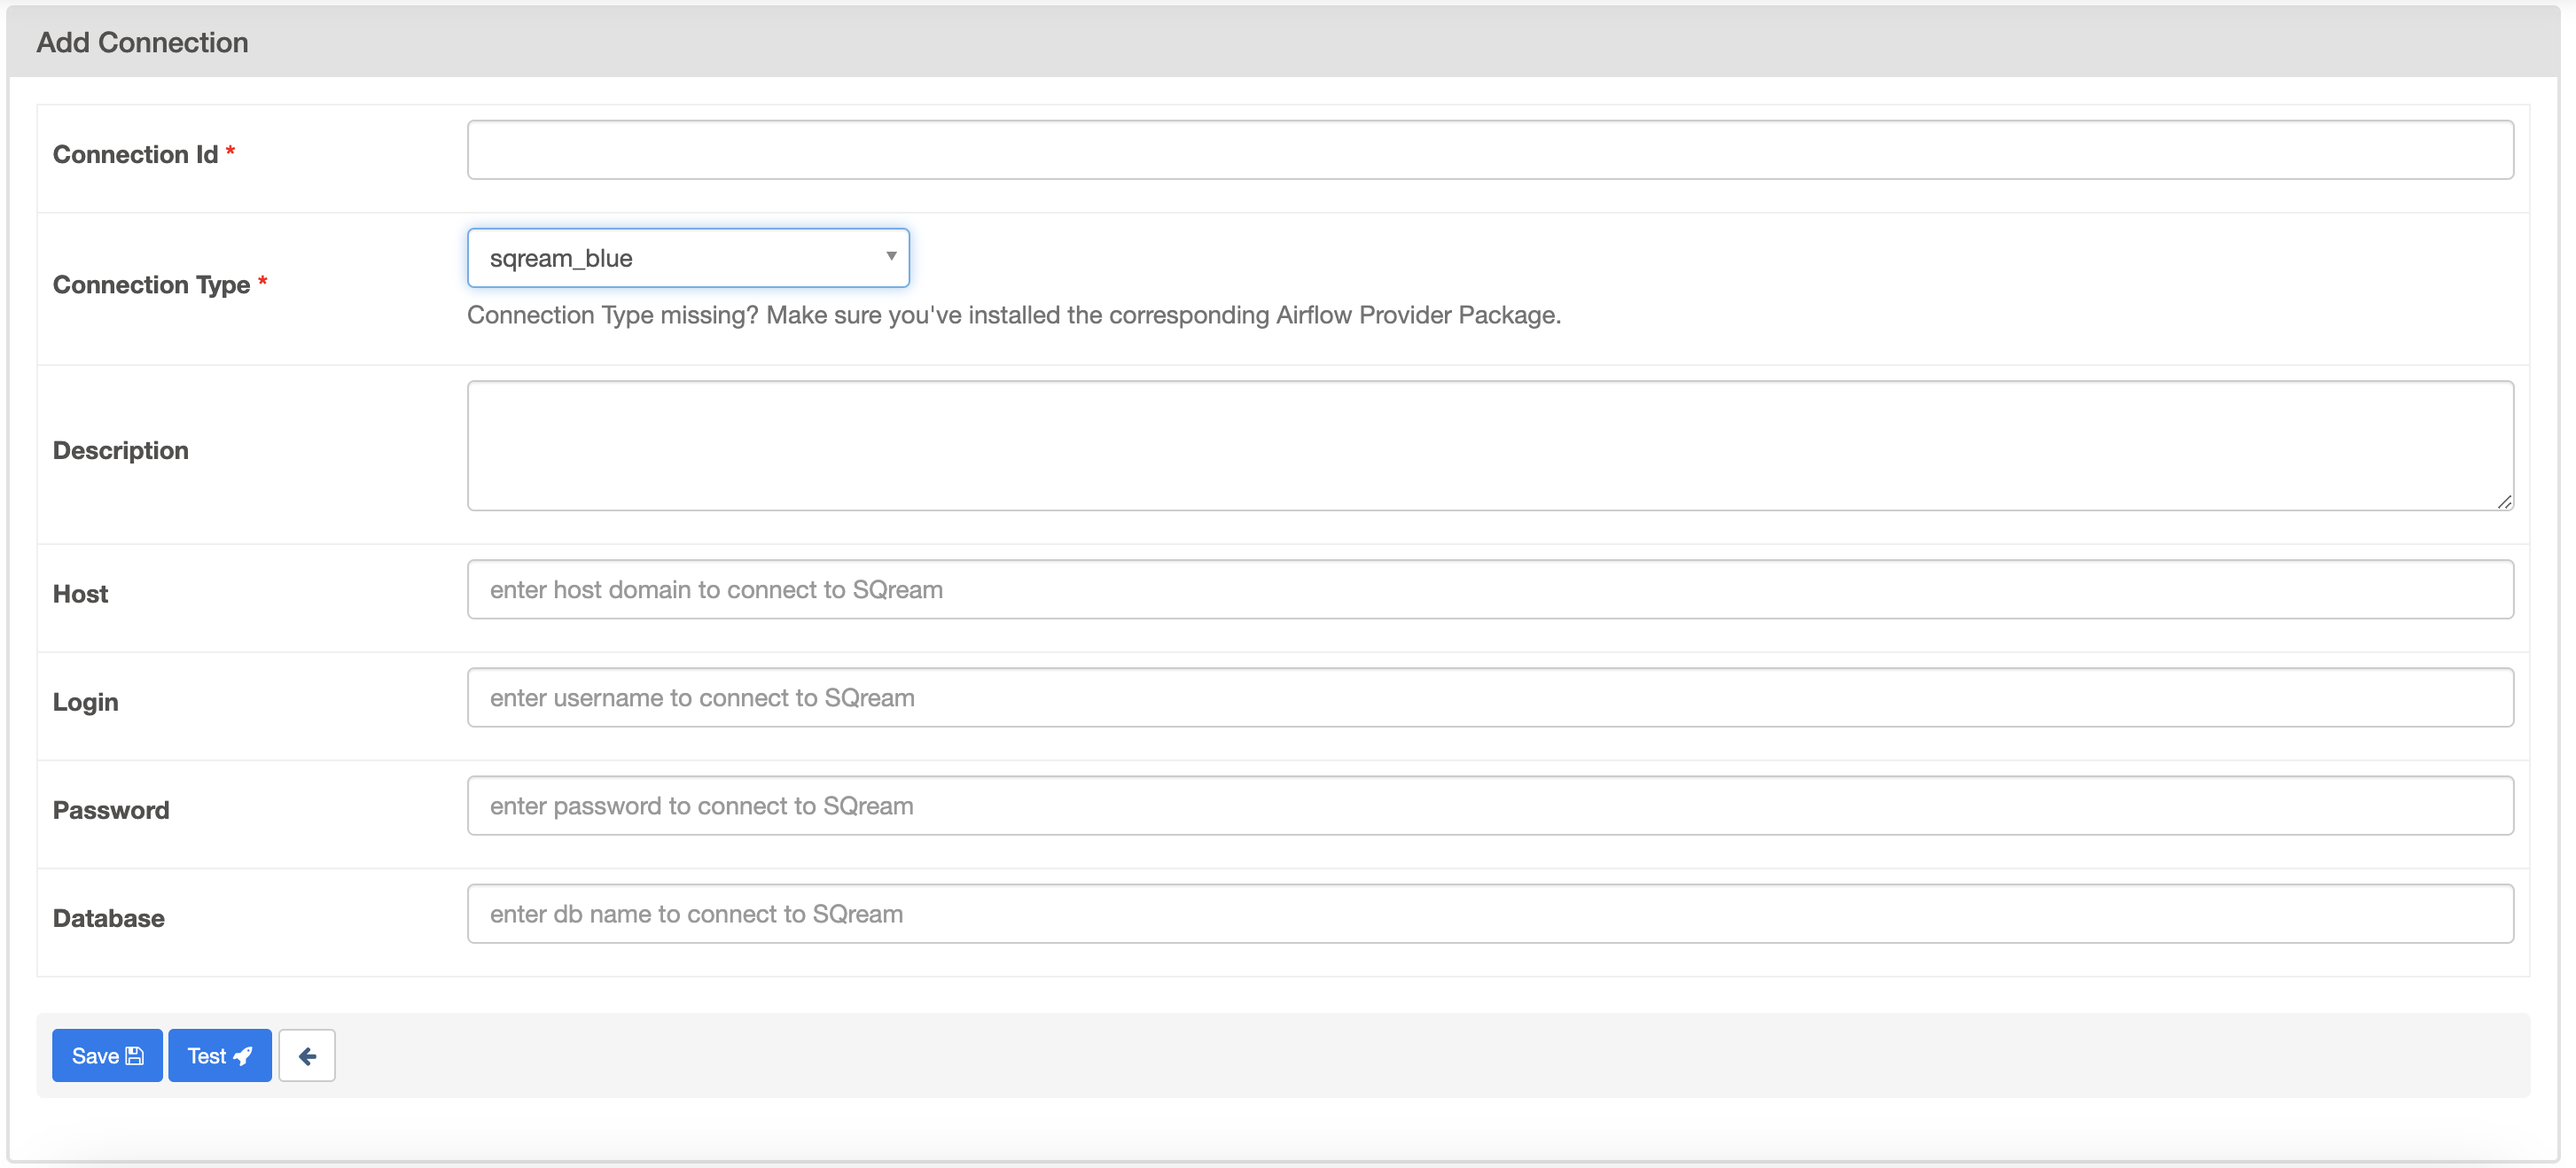
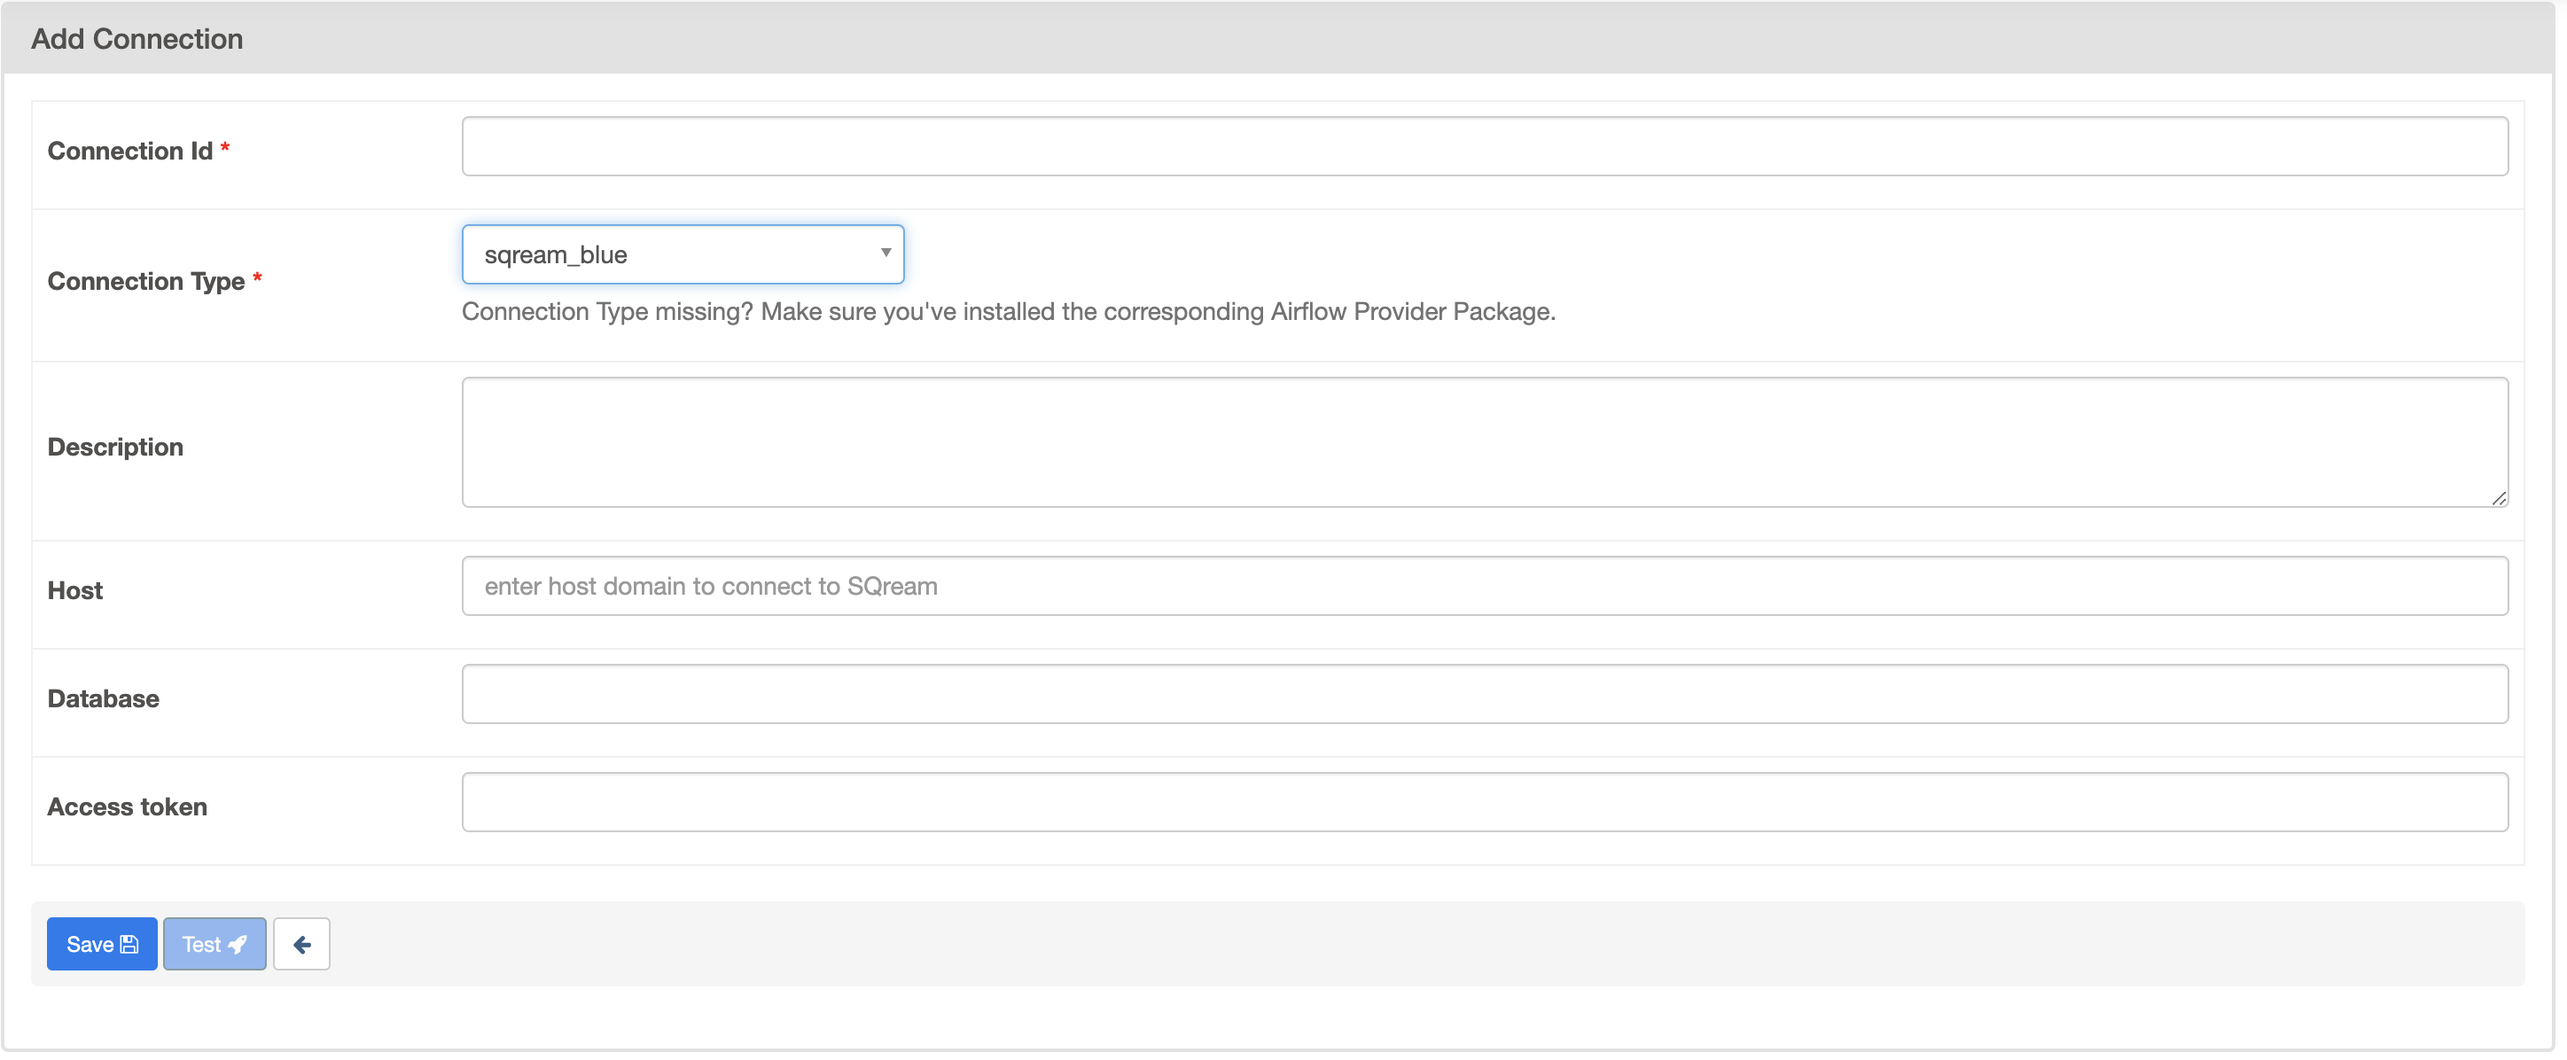
use access_token (#15)
Supporting Auth0

diff --git a/sqream_blue/hooks/sqream_blue.py b/sqream_blue/hooks/sqream_blue.py
@@ -18,7 +18,7 @@ def _ensure_prefixes(conn_type):
         @wraps(func)
         def inner():
             field_behaviors = func()
-            conn_attrs = {"host", "login", "password", "port", "database"}
+            conn_attrs = {"host", "access_token", "port", "extra"}
 
             def _ensure_prefix(field):
                 if field not in conn_attrs and not field.startswith("extra__"):
@@ -51,28 +51,29 @@ class SQreamBlueHook(DbApiHook):
         from wtforms import StringField
 
         return {
-            "database": StringField(lazy_gettext("Database"), widget=BS3TextFieldWidget())
+            "database": StringField(lazy_gettext("Database"), widget=BS3TextFieldWidget()),
+            "access_token": StringField(lazy_gettext("Access token"), widget=BS3TextFieldWidget())
         }
 
     @staticmethod
     @_ensure_prefixes(conn_type="sqream_blue")
     def get_ui_field_behaviour() -> dict[str, Any]:
         """Returns custom field behaviour"""
-
-        return {
-            "hidden_fields": ["port", "schema", "extra"],
-            "relabeling": {},
-            "placeholders": {
+        fileds = {
                 "host": "enter host domain to connect to SQream",
-                "login": "enter username to connect to SQream",
-                "password": "enter password to connect to SQream",
+                "Access token": "enter access token to connect to SQream",
                 "database": "enter db name to connect to SQream",
-            },
+            }
+        return {
+            "hidden_fields": ["port", "schema", "extra", "login", "password"],
+            "relabeling": {},
+            "placeholders": fileds,
         }
 
     def __init__(self, *args, **kwargs) -> None:
         super().__init__(*args, **kwargs)
         self.database = kwargs.pop("database", None)
+        self.access_token = kwargs.pop("access_token", None)
         self.query_ids: list[str] = []
 
     def _get_field(self, extra_dict, field_name):
@@ -103,10 +104,10 @@ class SQreamBlueHook(DbApiHook):
         conn = self.get_connection(self.sqream_blue_conn_id)  # type: ignore[attr-defined]
         extra_dict = conn.extra_dejson
         database = self._get_field(extra_dict, "database") or "master"
+        access_token = self._get_field(extra_dict, "access_token")
         conn_config = {
             "host": conn.host,
-            "username": conn.login,
-            "password": conn.password,
+            "access_token": self.access_token or access_token,
             "database": self.database or database
         }
         return conn_config

diff --git a/setup.py b/setup.py
@@ -8,7 +8,7 @@ with open("README.rst", "r") as fh:
 """Perform the package sqream_blue-provider setup."""
 setup(
     name='airflow-provider-sqream-blue',
-    version="0.0.7",
+    version="0.0.8",
     description='About Apache Airflow - A platform to programmatically author, schedule, and monitor workflows.',
     long_description=long_description,
     long_description_content_type='text/markdown',
@@ -19,7 +19,7 @@ setup(
     },
     license='Apache License 2.0',
     packages=['sqream_blue', 'sqream_blue.hooks','sqream_blue.operators'],
-    install_requires=['apache-airflow>=2.0', 'apache-airflow-providers-common-sql==1.3.2', 'pysqream-blue==1.0.23'],
+    install_requires=['apache-airflow>=2.0', 'apache-airflow-providers-common-sql==1.3.2', 'pysqream-blue==1.0.26'],
     setup_requires=['setuptools', 'wheel'],
     author='SQream',
     author_email='info@sqream.com',

diff --git a/sqream_blue/operators/sqream_blue.py b/sqream_blue/operators/sqream_blue.py
@@ -14,12 +14,14 @@ class SQreamBlueSqlOperator(SQLExecuteQueryOperator):
             *,
             sqream_blue_conn_id: str = "sqream_blue_default",
             database: str | None = None,
+            access_token: str | None = None,
             **kwargs,
     ) -> None:
-        if any([database]):
+        if any([database]) and any([access_token]):
             hook_params = kwargs.pop("hook_params", {})
             kwargs["hook_params"] = {
                 "database": database,
+                "access_token": access_token,
                 **hook_params,
             }
         super().__init__(conn_id=sqream_blue_conn_id, **kwargs)
